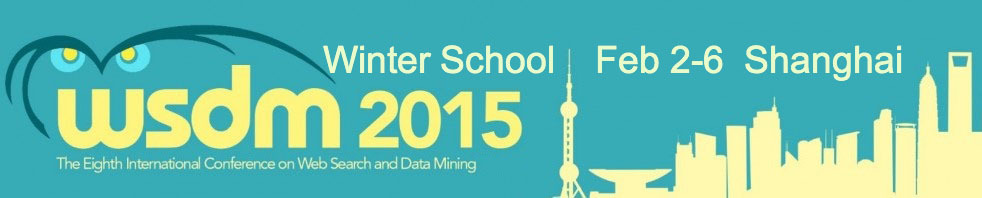
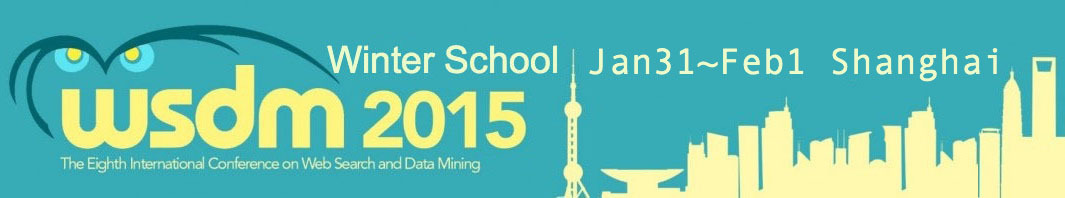
modify home pic and add contact info

Changed region(s): [[0.0, 0.1212, 1.0, 1.0], [0.0611, 0.7879, 0.4888, 0.8788], [0.1527, 0.1212, 0.1833, 0.1515]]

diff --git a/templates/base.html b/templates/base.html
@@ -22,13 +22,13 @@
 
   <body>
     <div id="wrapper">
-      <div style="width: 935px; height: 198px; overflow: hidden;">
+      <div style="width: 1033px; height: 198px; overflow: hidden;">
         <img src="/static/media/home.jpg" alt="">
       </div>
       <nav class="navbar navbar-default" role="navigation">
         <!-- Collect the nav links, forms, and other content for toggling -->  
         <div class="collapse navbar-collapse" id="bs-example-navbar-collapse-1">
-          <ul class="nav navbar-nav col-md-12">
+          <ul class="nav navbar-nav">
               <li ><a href="/WinterSchool/">Home</a></li>
               <li ><a href="/WinterSchool/schedule">Schedule</a></li>
               <li ><a href="/WinterSchool/hotel">Hotel</a></li>

diff --git a/templates/about.html b/templates/about.html
@@ -1,6 +1,11 @@
 {% extends "base.html" %}
 {% block content %}
 	<div id="content">
-		<h2 class="page_title">About</h2>
+		<div id="post-5" class="post-5 page type-page status-publish hentry">
+          <h2 class="page_title">About</h2>
+          <p>The website is under construction. We are in process of updating our website. If you have any question, don't hesitate to contact us.</p>
+          <p>Contact: Jing Yan, 188-1755-5177</p>
+        </div>
+
 	</div>
 {% endblock %}

diff --git a/templates/hotel.html b/templates/hotel.html
@@ -15,9 +15,6 @@
 		      	<li>Address: 上海市闵行区沪闵路277号（1.3公里）</li>
 		      	<li>contact: 021-34662707</li>
 		      	<li><a target="_blank" href="http://hotels.ctrip.com/hotel/91564.html">more information</a></li>
-		      	<li>
-		      		<img src="">
-		      	</li>
 		      </ul>
 		      <h4 class="page_title">锦江之星酒店</h4>
 		      <ul>

diff --git a/static/css/home.css b/static/css/home.css
@@ -2,7 +2,7 @@
 	background-color: #ffffff;
 	margin: 0px auto;
 	padding: 15px 15px 0px 15px;
-	width: 965px;
+	width: 1065px;
 }
 body {
 	color: #525244;
